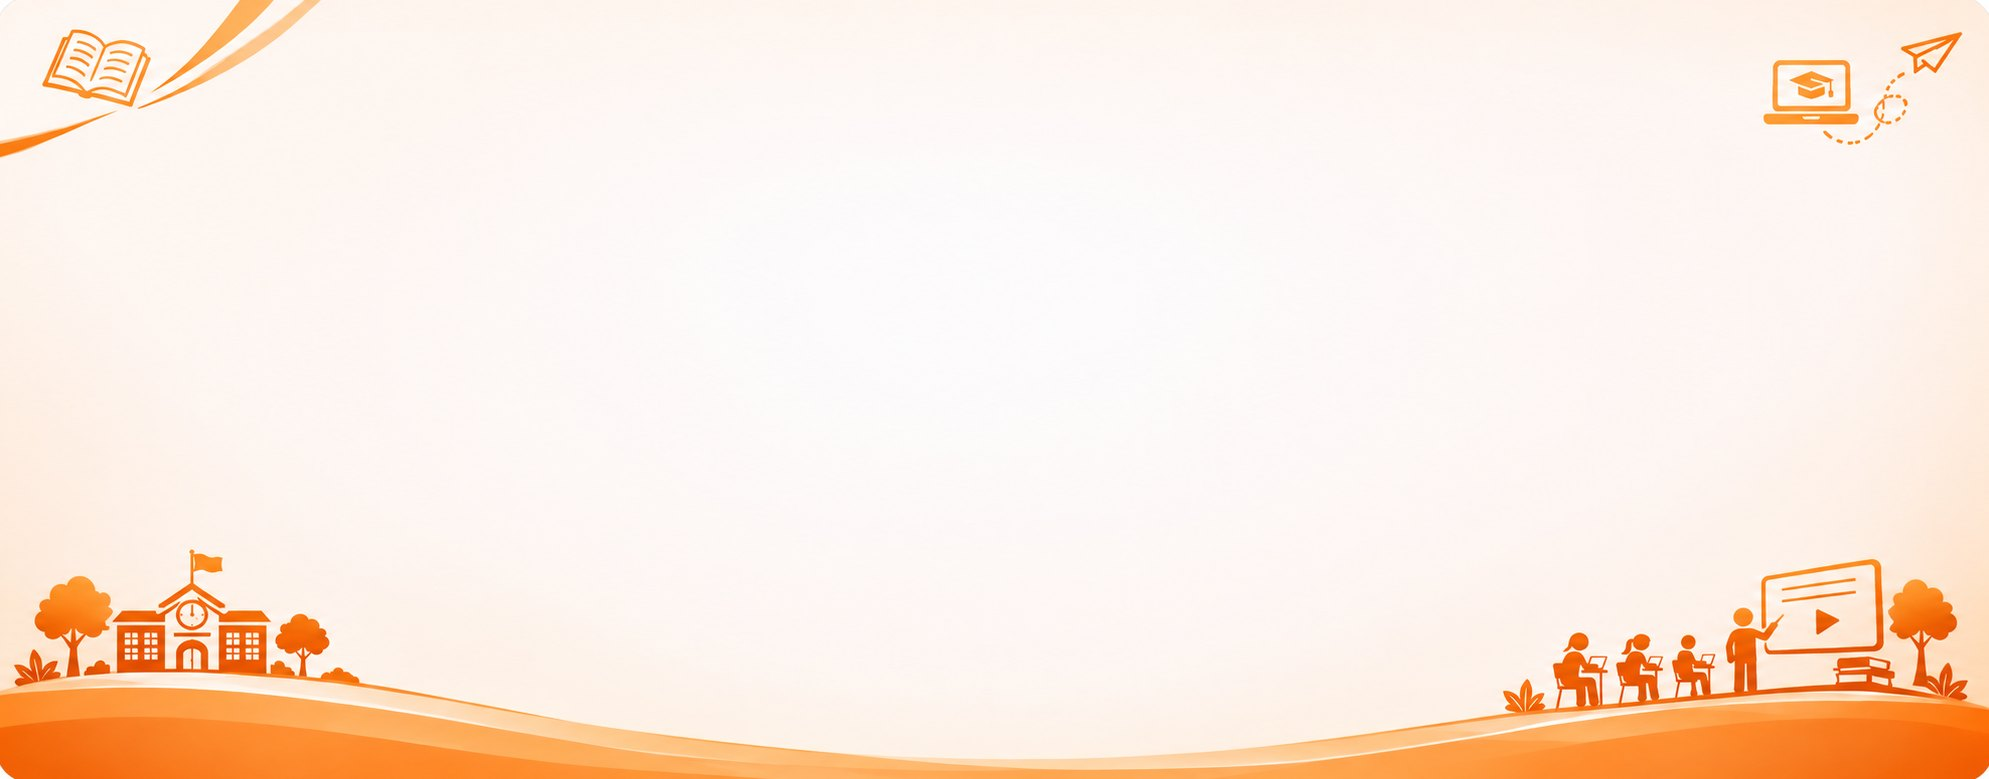
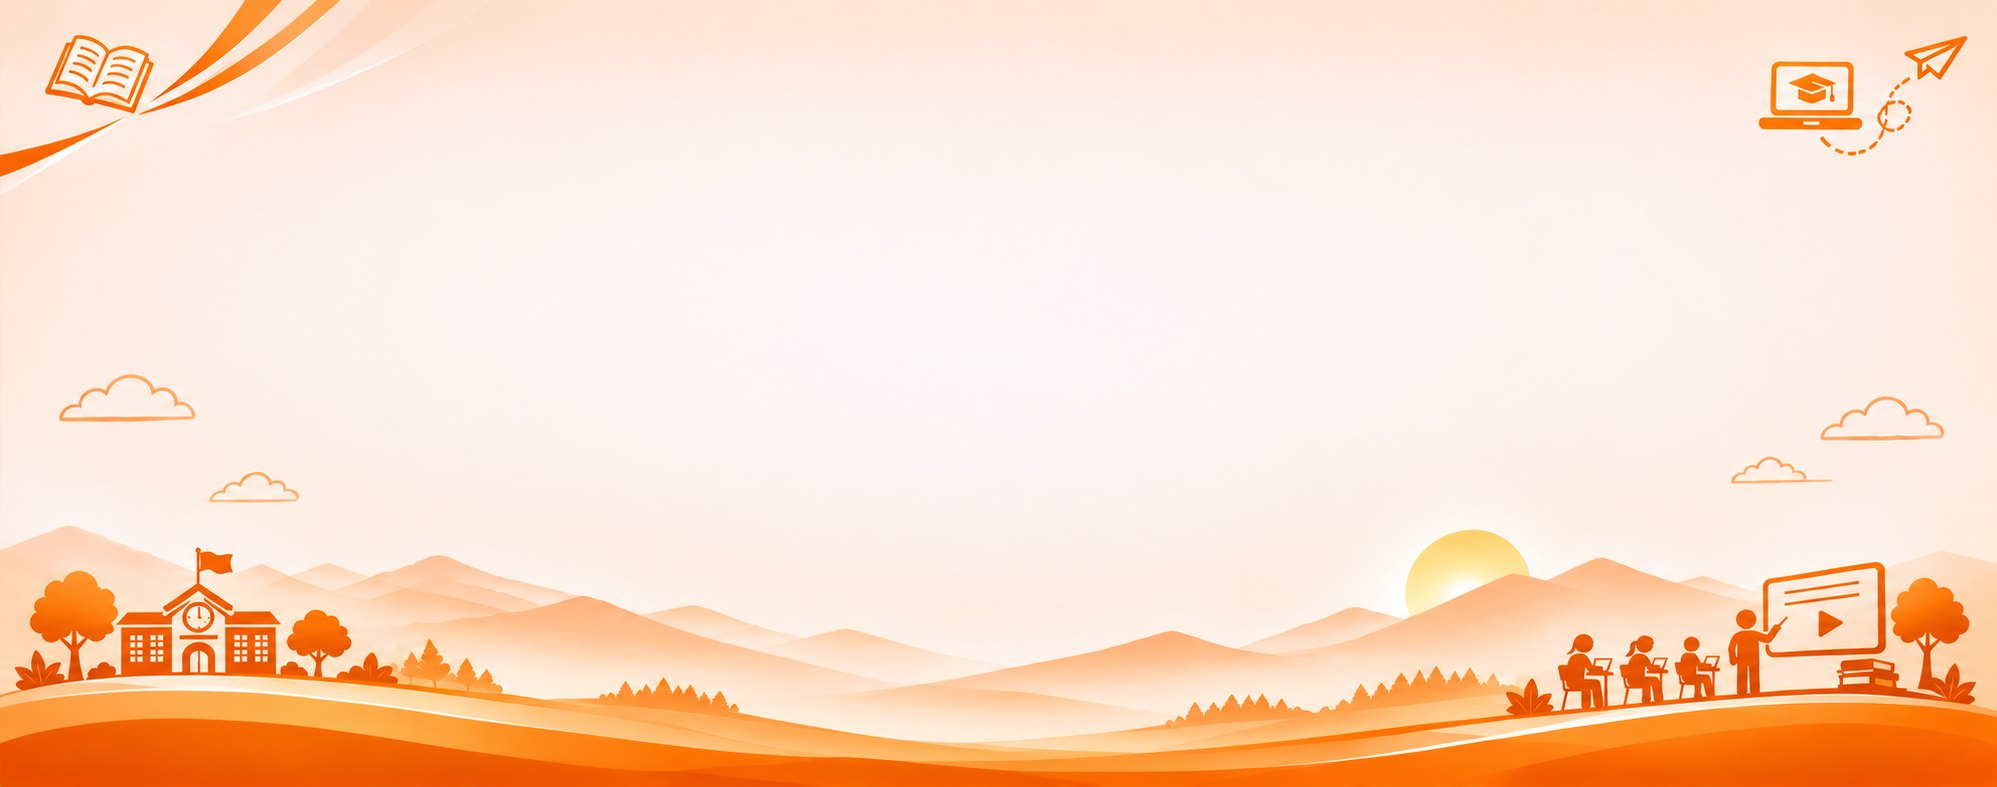
feat(site): new flock backdrop, smoother flight, a flock further away
- New illustration (mountains, sun, clouds) as the band's sky.
- Flight: birds settle into the logo in a loose left-to-right wave and leave
  the same way (per-bird delay); a critically damped spring brings them in
  without overshoot; the held logo breathes by a pixel; headings are smoothed
  so settled birds don't spin; wings beat slower as birds glide; soft walls
  keep the free flock above the hills (new `bounds` option).
- Distance: smaller, finer, lighter birds and a smaller logo (new `birdScale`
  and `logoWidth` options).

diff --git a/src/components/ui/murmuration-wordmark.tsx b/src/components/ui/murmuration-wordmark.tsx
@@ -62,12 +62,21 @@ export interface MurmurationWordmarkProps {
   interactive?: boolean
   /** Flight speed: 1 is the original pace, lower is calmer. Defaults to 1. */
   speed?: number
+  /**
+   * Band the free flock keeps to, as fractions of the height (e.g. stay above
+   * a drawn horizon). Defaults to { top: 0.03, bottom: 0.97 }.
+   */
+  bounds?: { top?: number; bottom?: number }
+  /** Bird size and stroke weight: below 1 reads as a flock further away. Defaults to 1. */
+  birdScale?: number
   /** Face the word is sampled from. Heavy weights form cleaner letters. */
   fontFamily?: string
   /** Form this traced shape instead of `word` (which stays the accessible name). */
   shape?: MurmurationShape
   /** Colour the shape's accent birds turn as they settle. */
   accent?: string
+  /** Widest the shape may be, as a share of the width. Defaults to 0.58. */
+  logoWidth?: number
   /** Content laid over the sky (a headline, a nav). */
   children?: React.ReactNode
   /** Root height. A definite length, never a percentage. */
@@ -185,9 +194,12 @@ export default function MurmurationWordmark({
   backdrop,
   interactive = true,
   speed = 1,
+  bounds,
+  birdScale = 1,
   fontFamily = SANS_STACK,
   shape,
   accent = "#e04e00",
+  logoWidth = 0.58,
   children,
   height = "100svh",
   className = "",
@@ -195,12 +207,14 @@ export default function MurmurationWordmark({
   const colors = { ...(PRESETS[preset] || PRESETS.dusk), ...(palette || {}) }
   const rootRef = React.useRef(null as HTMLDivElement | null)
   const canvasRef = React.useRef(null as HTMLCanvasElement | null)
-  const opts = React.useRef({ flyFor, holdFor, interactive, speed })
+  const boundTop = bounds?.top ?? 0.03
+  const boundBottom = bounds?.bottom ?? 0.97
+  const opts = React.useRef({ flyFor, holdFor, interactive, speed, boundTop, boundBottom, birdScale })
   // Synced after render (React forbids writing refs during render); the loop reads it each frame.
   React.useEffect(() => {
-    opts.current = { flyFor, holdFor, interactive, speed }
-  }, [flyFor, holdFor, interactive, speed])
-  const key = [word, birds, colors.skyTop, colors.skyLow, colors.sun, colors.ink, reeds, fontFamily, accent, backdrop, shape ? shape.points.length + ":" + shape.aspect : ""].join("|")
+    opts.current = { flyFor, holdFor, interactive, speed, boundTop, boundBottom, birdScale }
+  }, [flyFor, holdFor, interactive, speed, boundTop, boundBottom, birdScale])
+  const key = [word, birds, colors.skyTop, colors.skyLow, colors.sun, colors.ink, reeds, fontFamily, accent, backdrop, logoWidth, shape ? shape.points.length + ":" + shape.aspect : ""].join("|")
 
   React.useEffect(() => {
     const root = rootRef.current
@@ -224,6 +238,10 @@ export default function MurmurationWordmark({
     let vy = new Float32Array(0)
     let depth = new Float32Array(0)
     let phase = new Float32Array(0)
+    // Smoothed heading (so settled birds don't spin) and arrival order.
+    let dirX = new Float32Array(0)
+    let dirY = new Float32Array(0)
+    let delay = new Float32Array(0)
     let target = new Int32Array(0)
     let tx = new Float32Array(0)
     let ty = new Float32Array(0)
@@ -317,10 +335,10 @@ export default function MurmurationWordmark({
       const accentPts = [] as number[]
       if (shape && shape.points.length >= 2) {
         // A traced logo, fitted and centred where the word would sit.
-        const boxW = Math.min(w * 0.6, h * 0.56 * shape.aspect)
+        const boxW = Math.min(w * logoWidth, h * 0.9 * logoWidth * shape.aspect)
         const boxH = boxW / shape.aspect
         const left = w / 2 - boxW / 2
-        const top = h * 0.4 - boxH / 2
+        const top = h * 0.38 - boxH / 2
         const total = shape.points.length / 2
         const accentFrom = shape.accentFrom ?? total
         const jitter = (boxW / Math.sqrt(total)) * 0.6
@@ -362,6 +380,8 @@ export default function MurmurationWordmark({
         vy = new Float32Array(n)
         depth = new Float32Array(n)
         phase = new Float32Array(n)
+        dirX = new Float32Array(n).fill(1)
+        dirY = new Float32Array(n)
         for (let i = 0; i < n; i++) {
           const a = rand() * Math.PI * 2
           const r = Math.sqrt(rand())
@@ -374,6 +394,13 @@ export default function MurmurationWordmark({
       target = mmwAssign(n, tx.length, 23)
       kind = new Uint8Array(n)
       for (let i = 0; i < n; i++) kind[i] = target[i]! >= 0 ? tk[target[i]!]! : 0
+      // Birds settle in a sweep from left to right, loosely, and leave in the
+      // same order: a wave rather than everyone at once.
+      delay = new Float32Array(n)
+      for (let i = 0; i < n; i++) {
+        const ti = target[i]!
+        delay[i] = (ti >= 0 ? 0.55 * (tx[ti]! / w) : 0.3) + 0.3 * rand()
+      }
     }
 
     const frame = (now: number) => {
@@ -388,14 +415,30 @@ export default function MurmurationWordmark({
       const dt = reduced ? 0 : Math.min(0.05, (now - last) / 1000) * Math.max(0.1, o.speed)
       last = now
       clock += dt
-      const cycle = Math.max(1, o.flyFor) + 2.4 + Math.max(0.5, o.holdFor) + 0.6
-      const tc = clock % cycle
+      const FORM = 3.2
+      const RELEASE = 2.2
       const fly = Math.max(1, o.flyFor)
-      // 0 → 1 while forming, 1 while holding, back to 0 on release.
-      let pull = 0
-      if (tc > fly && tc <= fly + 2.4) pull = mmwEase((tc - fly) / 2.4)
-      else if (tc > fly + 2.4 && tc <= fly + 2.4 + o.holdFor) pull = 1
-      else if (tc > fly + 2.4 + o.holdFor) pull = 1 - mmwEase((tc - fly - 2.4 - o.holdFor) / 0.6)
+      const holdT = Math.max(0.5, o.holdFor)
+      const cycle = fly + FORM + holdT + RELEASE
+      const tc = clock % cycle
+      // Overall 0 → 1 while forming, 1 while holding, back to 0 on release;
+      // each bird follows it with its own delay (see `delay`).
+      let stage = 0 // 0 free, 1 forming, 2 holding, 3 releasing
+      let prog = 0
+      if (tc > fly && tc <= fly + FORM) {
+        stage = 1
+        prog = (tc - fly) / FORM
+      } else if (tc > fly + FORM && tc <= fly + FORM + holdT) {
+        stage = 2
+      } else if (tc > fly + FORM + holdT) {
+        stage = 3
+        prog = (tc - fly - FORM - holdT) / RELEASE
+      }
+      const pull = stage === 1 ? mmwEase(prog) : stage === 2 ? 1 : stage === 3 ? 1 - mmwEase(prog) : 0
+      const top = o.boundTop * h
+      const bottom = o.boundBottom * h
+      const edge = Math.min(w, h) * 0.06
+      const wobble = clock * 1.7
 
       const u = Math.min(w, h)
       const cen = mmwCentre(clock)
@@ -414,7 +457,10 @@ export default function MurmurationWordmark({
         const fx = (x - w / 2) / u
         const fy = (y - h / 2) / u
         const cv = mmwCurl(fx * 2.2 + depth[i]! * 0.25, fy * 2.2, t)
-        const free = 1 - pull
+        const d = delay[i]!
+        const p =
+          stage === 1 ? mmwEase(prog * 1.85 - d) : stage === 2 ? 1 : stage === 3 ? 1 - mmwEase(prog * 1.85 - d) : 0
+        const free = 1 - p
         ax += cv[0] * 420 * free
         ay += cv[1] * 420 * free
         const dxC = cxp - x
@@ -423,11 +469,19 @@ export default function MurmurationWordmark({
         const hold = dC < 0.14 ? 0.15 : 0.15 + (dC - 0.14) * 6
         ax += dxC * hold * 2.2 * free
         ay += dyC * hold * 1.6 * free
-        // Formation: spring to the bird's point in the word.
+        // Soft walls keep the free flock inside its band (above a horizon).
+        if (y < top + edge) ay += (top + edge - y) * 70 * free
+        else if (y > bottom - edge) ay -= (y - bottom + edge) * 70 * free
+        if (x < edge) ax += (edge - x) * 30 * free
+        else if (x > w - edge) ax -= (x - w + edge) * 30 * free
+        // Formation: a critically damped spring to the bird's point, which
+        // drifts a pixel or so while held so the word breathes.
         const ti = target[i]!
-        if (pull > 0 && ti >= 0) {
-          ax += (tx[ti]! - x) * 9 * pull - vx[i]! * 3.2 * pull
-          ay += (ty[ti]! - y) * 9 * pull - vy[i]! * 3.2 * pull
+        if (p > 0 && ti >= 0) {
+          const gx = tx[ti]! + Math.sin(wobble + i * 0.61) * 1.1
+          const gy = ty[ti]! + Math.cos(wobble * 0.8 + i * 0.37) * 0.9
+          ax += ((gx - x) * 16 - vx[i]! * 8) * p
+          ay += ((gy - y) * 16 - vy[i]! * 8) * p
         }
         // The hawk: a hard shove away inside its radius.
         if (hawk) {
@@ -444,7 +498,7 @@ export default function MurmurationWordmark({
         let nvx = (vx[i]! + ax * dt) * (1 - 1.1 * dt)
         let nvy = (vy[i]! + ay * dt) * (1 - 1.1 * dt)
         const sp = Math.hypot(nvx, nvy)
-        const cap = 520 + 380 * pull
+        const cap = 520 + 380 * p
         if (sp > cap) {
           nvx = (nvx / sp) * cap
           nvy = (nvy / sp) * cap
@@ -453,7 +507,17 @@ export default function MurmurationWordmark({
         vy[i] = nvy
         px[i] = x + nvx * dt
         py[i] = y + nvy * dt
-        phase[i] = phase[i]! + dt * (9 + sp * 0.02)
+        // Heading eases towards the flight direction; wings beat slower as a
+        // bird settles and glides.
+        if (sp > 12) {
+          const k = Math.min(1, dt * 7)
+          const hxn = dirX[i]! + (nvx / sp - dirX[i]!) * k
+          const hyn = dirY[i]! + (nvy / sp - dirY[i]!) * k
+          const hl = Math.hypot(hxn, hyn) || 1
+          dirX[i] = hxn / hl
+          dirY[i] = hyn / hl
+        }
+        phase[i] = phase[i]! + dt * (6 + sp * 0.018) * (1 - 0.55 * p)
       }
 
       ctx.setTransform(1, 0, 0, 1, 0, 0)
@@ -470,10 +534,9 @@ export default function MurmurationWordmark({
           if (kind[i] !== group) continue
           const near = depth[i]! > 0.78
           if (front !== near) continue
-          const s = (1.6 + depth[i]! * 2.2) * (1 - 0.35 * pull)
-          const sp = Math.hypot(vx[i]!, vy[i]!) + 0.001
-          const dx = vx[i]! / sp
-          const dy = vy[i]! / sp
+          const s = (1.6 + depth[i]! * 2.2) * (1 - 0.35 * pull) * o.birdScale
+          const dx = dirX[i]!
+          const dy = dirY[i]!
           const flap = 0.55 + 0.45 * Math.sin(phase[i]!)
           const bx = px[i]!
           const by = py[i]!
@@ -488,7 +551,7 @@ export default function MurmurationWordmark({
         }
         ctx.strokeStyle = group === 1 ? accentInk : colors.ink
         ctx.globalAlpha = front ? 0.92 : 0.55 + 0.37 * pull * group
-        ctx.lineWidth = front ? 1.25 + 0.35 * pull * group : 0.9
+        ctx.lineWidth = (front ? 1.25 + 0.35 * pull * group : 0.9) * Math.max(0.6, o.birdScale)
         ctx.stroke()
       }
       ctx.globalAlpha = 1

diff --git a/src/components/site/sanady-flock.tsx b/src/components/site/sanady-flock.tsx
@@ -22,7 +22,11 @@ export function SanadyFlock() {
       holdFor={2.6}
       backdrop="/brand/flock-backdrop.jpg"
       reeds={false}
-      palette={{ skyTop: "#fdf6ef", skyLow: "#fdf6ef", sun: "#fdf6ef", ink: "#1a1715" }}
+      bounds={{ top: 0.05, bottom: 0.62 }}
+      // Smaller, lighter birds and a smaller logo: the flock reads as far off.
+      birdScale={0.62}
+      logoWidth={0.5}
+      palette={{ skyTop: "#fde8d6", skyLow: "#fde8d6", sun: "#fde8d6", ink: "#3a302b" }}
       // Follows the illustration's 2.55:1 shape so phones keep its corners.
       height="clamp(8.5rem, calc((min(100vw, 80rem) - 2rem) / 2.55), 30rem)"
     />
